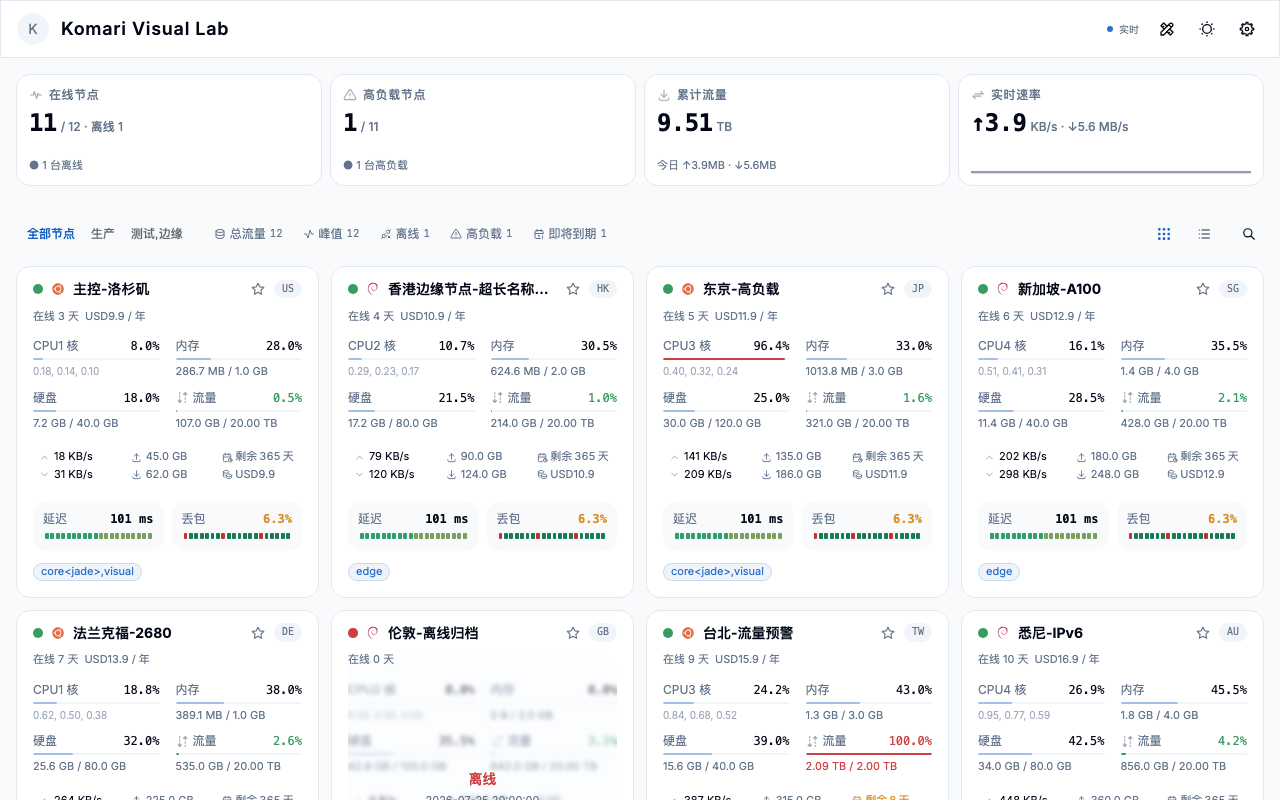
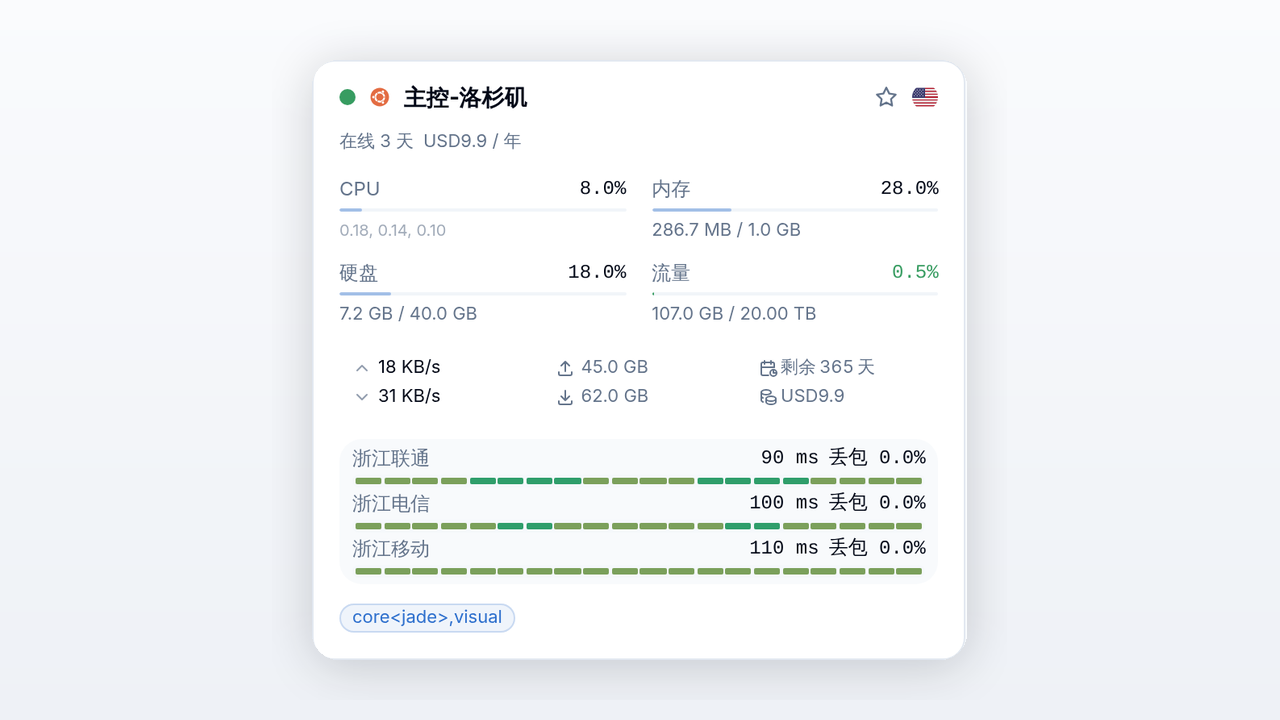
fix(theme): 元信息自有化（author=zhemed）与新版预览图，版本 1.0.2 [task:10-25-theme-owner-metadata-impl]

diff --git a/ops-docs/VERSION.md b/ops-docs/VERSION.md
@@ -2,7 +2,7 @@
 
 ## 主题（themes/ink）
 
-- 版本号 **由我们自己的 1.x 线管理，当前 `1.0.1`**。
+- 版本号 **由我们自己的 1.x 线管理，当前 `1.0.2`**。
 - **与上游 ink 的 0.6.x 无关**：上游 `jacob-bytes/komari-theme-ink` 0.6.14 只是我们这份代码的历史起点；
   从 0.0.1 起由本仓库单独发版、单独修复，不再跟随上游语义或版本号。
 - **唯一版本源**：`themes/ink/komari-theme.json` 的 `version` 字段。
@@ -30,7 +30,7 @@
 
 ## Git tag 约定（本地打并 push 到 origin，2026-10-25 起）
 
-- 主题：`theme-ink/v1.0.1`
+- 主题：`theme-ink/v1.0.2`
 - 服务端：`server/v0.0.24-own.1`
 - 一个可部署组合 = 主题 tag + 服务端 tag，记录在 `ops-dist/BUILD-INFO.txt`。
 

diff --git a/README.md b/README.md
@@ -45,7 +45,7 @@ docker run -d --name komari-agent --restart always \
 
 | 路径 | 内容 |
 |---|---|
-| `themes/ink/` | 自维护的 ink 状态页主题源码（**版本线 1.x，当前 1.0.1**；更新通道与市场目录均指向本仓，与上游主题 0.6.x 无关） |
+| `themes/ink/` | 自维护的 ink 状态页主题源码（**版本线 1.x，当前 1.0.2**；更新通道与市场目录均指向本仓，与上游主题 0.6.x 无关） |
 | `deploy/` | 部署脚本：`deploy-theme.sh`（静态部署，支持 `--dry-run`）、版本化启动脚本、`Dockerfile.local` |
 | `ops-docs/` | 构建 / 部署 / 回滚 / 版本规则说明 |
 | `build.sh` | 一键构建：内核二进制 + 本地镜像 + 主题 zip（含 sha256） |
